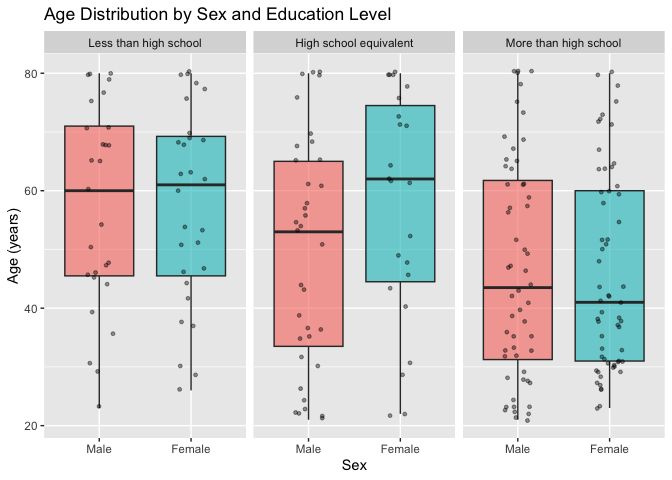
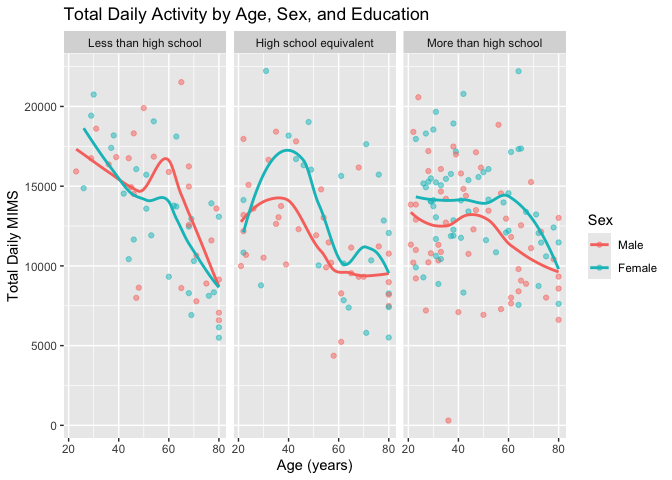
adjustment

diff --git a/p8105_hw3_yp2846.md b/p8105_hw3_yp2846.md
@@ -19,7 +19,6 @@ library(tidyverse)
     ## ℹ Use the conflicted package (<http://conflicted.r-lib.org/>) to force all conflicts to become errors
 
 ``` r
-library(lubridate)
 library(patchwork)
 ```
 
@@ -89,7 +88,7 @@ ny_noaa_clean |>
   .groups = "drop")|>
   ggplot(aes(x = year, y = mean_tmax)) +
   geom_point(alpha = 0.15, size = 0.6)+
-  facet_grid(~month,
+  facet_grid(~ month,
              labeller = labeller(
                month = c("1" = "January", "7" = "July")
   )) +
@@ -248,26 +247,6 @@ nhanes_covar = nhanes_covar |>
   )
 nhanes = nhanes_covar |>
   inner_join(nhanes_accel, by = "seqn")
-head(nhanes,5)
-```
-
-    ## # A tibble: 5 × 1,445
-    ##    seqn sex      age   bmi education    min1  min2  min3  min4  min5  min6  min7
-    ##   <dbl> <fct>  <dbl> <dbl> <fct>       <dbl> <dbl> <dbl> <dbl> <dbl> <dbl> <dbl>
-    ## 1 62161 Male      22  23.3 High schoo…  1.11  3.12  1.47 0.938  1.60 0.145 2.10 
-    ## 2 62164 Female    44  23.2 More than …  1.92  1.67  2.38 0.935  2.59 5.22  2.39 
-    ## 3 62169 Male      21  20.1 High schoo…  5.85  5.18  4.76 6.48   6.85 7.24  6.12 
-    ## 4 62174 Male      80  33.9 More than …  5.42  3.48  3.72 3.81   6.85 4.45  0.561
-    ## 5 62177 Male      51  20.1 High schoo…  6.14  8.06  9.99 6.60   4.57 2.78  7.10 
-    ## # ℹ 1,433 more variables: min8 <dbl>, min9 <dbl>, min10 <dbl>, min11 <dbl>,
-    ## #   min12 <dbl>, min13 <dbl>, min14 <dbl>, min15 <dbl>, min16 <dbl>,
-    ## #   min17 <dbl>, min18 <dbl>, min19 <dbl>, min20 <dbl>, min21 <dbl>,
-    ## #   min22 <dbl>, min23 <dbl>, min24 <dbl>, min25 <dbl>, min26 <dbl>,
-    ## #   min27 <dbl>, min28 <dbl>, min29 <dbl>, min30 <dbl>, min31 <dbl>,
-    ## #   min32 <dbl>, min33 <dbl>, min34 <dbl>, min35 <dbl>, min36 <dbl>,
-    ## #   min37 <dbl>, min38 <dbl>, min39 <dbl>, min40 <dbl>, min41 <dbl>, …
-
-``` r
 dim(nhanes)
 ```
 
@@ -278,23 +257,6 @@ missing demographic information, the merged dataset contains 228
 participants. Each row represents one participant and includes
 demographic characteristics and minute-level accelerometer measurements
 across a 24-hour period.
-
-``` r
-demo_table = nhanes |>
-  count(education, sex)
-
-demo_table
-```
-
-    ## # A tibble: 6 × 3
-    ##   education              sex        n
-    ##   <fct>                  <fct>  <int>
-    ## 1 Less than high school  Male      27
-    ## 2 Less than high school  Female    28
-    ## 3 High school equivalent Male      35
-    ## 4 High school equivalent Female    23
-    ## 5 More than high school  Male      56
-    ## 6 More than high school  Female    59
 
 ``` r
 demo_table = nhanes |>
@@ -341,7 +303,7 @@ nhanes |>
   )
 ```
 
-![](p8105_hw3_yp2846_files/figure-gfm/unnamed-chunk-13-1.png)<!-- -->
+![](p8105_hw3_yp2846_files/figure-gfm/unnamed-chunk-12-1.png)<!-- -->
 
 The sample includes 228 participants, with 118 men and 110 women. The
 more-than-high-school education group is the largest, with 115
@@ -378,7 +340,7 @@ nhanes_total |>
 
     ## `geom_smooth()` using formula = 'y ~ x'
 
-![](p8105_hw3_yp2846_files/figure-gfm/unnamed-chunk-14-1.png)<!-- -->
+![](p8105_hw3_yp2846_files/figure-gfm/unnamed-chunk-13-1.png)<!-- -->
 
 ``` r
 nhanes |>
@@ -450,7 +412,7 @@ activity_by_minute |>
 
     ## `geom_smooth()` using formula = 'y ~ x'
 
-![](p8105_hw3_yp2846_files/figure-gfm/unnamed-chunk-16-1.png)<!-- -->
+![](p8105_hw3_yp2846_files/figure-gfm/unnamed-chunk-15-1.png)<!-- -->
 
 Across all three education levels, activity follows a similar daily
 pattern, reaching its lowest levels during the early morning hours
@@ -641,7 +603,7 @@ duration_summary |>
   )
 ```
 
-![](p8105_hw3_yp2846_files/figure-gfm/unnamed-chunk-21-1.png)<!-- -->
+![](p8105_hw3_yp2846_files/figure-gfm/unnamed-chunk-20-1.png)<!-- -->
 
 Median ride duration was consistently longer in July than in January
 across both years. Weekend rides generally lasted longer than weekday
@@ -680,7 +642,7 @@ citibike_2024 |>
   )
 ```
 
-![](p8105_hw3_yp2846_files/figure-gfm/unnamed-chunk-22-1.png)<!-- -->
+![](p8105_hw3_yp2846_files/figure-gfm/unnamed-chunk-21-1.png)<!-- -->
 
 In 2024, casual riders generally had longer median ride durations and
 greater variability than members, particularly when using classic bikes.
